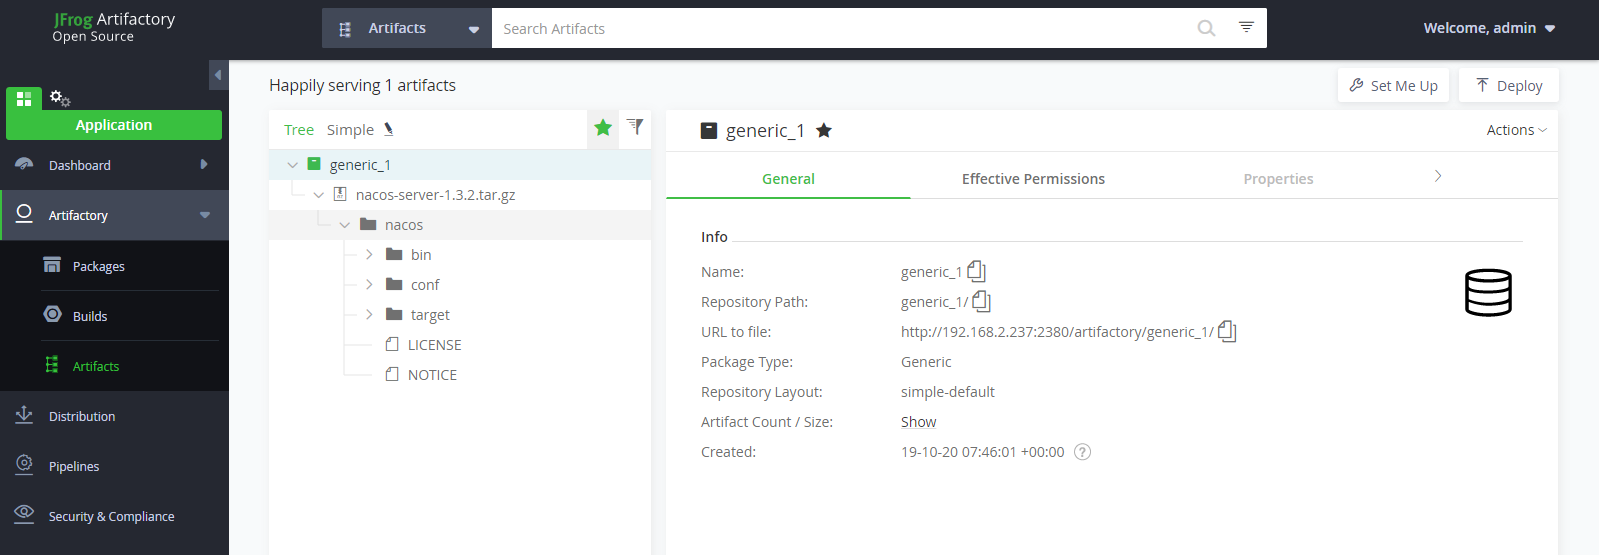
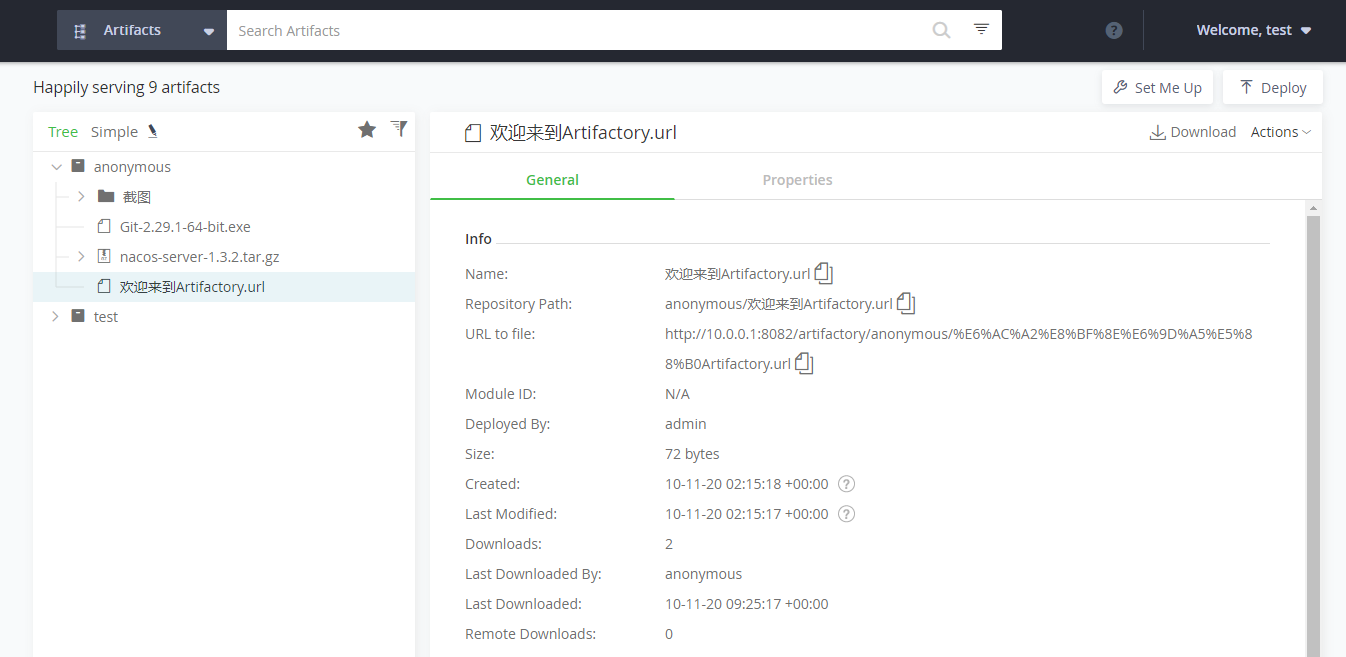
更新 Artifactory 的用法

diff --git a/docs/Distributed/存储/Artifactory.md b/docs/Distributed/存储/Artifactory.md
@@ -1,10 +1,8 @@
 # Artifactory
 
-：一个用作制品仓库的服务器软件，由 Jfrog 公司推出。
-- 特定：
-  - 提供了 Web 操作页面，也提供了上传、下载文件的 HTTP API 。
-  - 社区版可以免费试用，但只能创建 Generic、Maven 等少量几种仓库。
-  - 支持在 Web 页面上直接解压文件，进行预览。
+：一个用于存储构建产物的文件服务器软件，由 Jfrog 公司推出。
+- 可以通过浏览器访问，也可以生成文件的下载链接，通过 curl 命令上传、下载文件。
+- 社区版可以免费使用，但功能较少。
 - [官方文档](https://www.jfrog.com/confluence/display/RTF6X)
 - 同类产品：
   - Nexus ：主要用作 Maven 仓库，用途较窄。
@@ -13,33 +11,56 @@
 
 - 运行 Docker 镜像：
   ```sh
-  docker run -d --name artifactory -v /opt/artifactory:/var/opt/jfrog/artifactory -p 8082:8082 docker.bintray.io/jfrog/artifactory-oss
+  docker run -d --name artifactory \
+         -p 8082:8082 \
+         -v /opt/artifactory:/var/opt/jfrog/artifactory \
+         docker.bintray.io/jfrog/artifactory-oss
   ```
   默认用户名、密码为 admin、password 。
 
 ## 用法
 
-Web 页面示例：
+- 管理员可以创建仓库（Repository），设置哪些用户有权向该仓库上传、下载文件。
+- 仓库按存储位置分类：
+  - 本地仓库(Local)
+  - 远程仓库(Remote)：通过 URL 拉取其它仓库的内容，缓存到本地。
+  - 虚拟仓库(Virtual)
+- 仓库按文件格式分类：
+  - Generic ：按二进制格式保存文件。
+  - Maven
+  - Gradle
+- 默认定义了一个匿名用户（anonymous），代表没有登录的用户。
+  - 可以在 Security -> Settings 页面中允许 “Allow Anonymous Access” 。
 
+Web 页面如下：
 ![](./Artifactory_1.png)
+- 在 Web 页面左侧，可选择一个仓库。点击右上角的 "Deploy" 就会弹出一个上传文件的窗口。
+- 上传文件时，会根据文件名自动生成上传路径（Target Path）。
+  - 如果已存在该路径的文件，则会覆盖它。
+  - 可以主动设置上传路径，比如划分出子目录。
+- 每个文件有一个唯一的 URL ，可供用户上传、下载该文件。
+  - 文件的 URL 等于 `仓库URL + 文件上传路径` 。可以从网页上拷贝该 URL ，也可以自己拼凑出来。
+- 在浏览器上访问仓库或目录的 URL ，会显示简单的文件列表。如下：
+  ![](./Artifactory_2.png)
 
-- 可以创建一个 Generic 类型的仓库，可用于直接保存文件，比如二进制文件。
-- 在 Web 页面上，打开一个仓库，点击右上角的 "Deploy" 就会弹出一个上传文件的窗口。
-- 上传文件时，需要指定它在该仓库中的保存路径。如果已存在该路径的文件，则会被覆盖。
+节省存储空间的方法：
+- Maven、Gradle 等类型的仓库，可以通过设置 “Max Unique Snapshots” 参数，只保留每个工件版本最大的 n 个快照（SNAPSHOT）。
+- Artifactory Pro 版可以安装 artifactCleanup 插件，定时删除本地仓库中未使用的文件。
+- Remote 类型的仓库可以通过设置 “Unused Artifacts Cleanup Period” 参数，将 n 小时未使用的缓存标记为 Unused 。然后在高级设置 Advanced -> Maintenance 页面，设置定时执行 “Cleanup Unused Cached Artifacts” 。
 
 ## Restful API
 
 - 上传文件：
   ```sh
-  curl -X PUT -u admin:password http://10.0.0.1:8082/artifactory/generic_1/test/1.zip -T 1.zip
+  curl -X PUT -u 用户名:密码 'http://10.0.0.1:8082/artifactory/anonymous/test/1.zip' -T 1.zip
   ```
 
 - 下载文件：
   ```sh
-  curl -O -u admin:password http://10.0.0.1:8082/artifactory/generic_1/test/1.zip
+  curl -O -u 用户名:密码 <URL>
   ```
 
 - 删除文件：
   ```sh
-  curl -X DELETE -u admin:password http://10.0.0.1:8082/artifactory/generic_1/test/1.zip
+  curl -X DELETE -u 用户名:密码 <URL>
   ```

diff --git a/docs/DevOps/容器/Docker-Compose.md b/docs/DevOps/容器/Docker-Compose.md
@@ -11,9 +11,9 @@
 ## 安装
 
 - 用 pip 安装：
-    ```sh
-    pip3 install docker-compose
-    ```
+  ```sh
+  pip3 install docker-compose
+  ```
 
 ## 命令
 
@@ -72,6 +72,8 @@ services:                     # 开始定义服务
     command: [tail, -f, /dev/null]  # 启动命令
     init: true                # 使用 init 作为 1 号进程
     restart: on-failure       # 重启策略
+    depends_on:               # 依赖关系
+      - redis                 # 这表示：如果启动 web 服务，则会自动先启动 redis 服务；如果停止 redis 服务，则会自动先停止 web 服务
     environment:              # 环境变量
       var1: 1
       var2: hello
@@ -85,8 +87,11 @@ services:                     # 开始定义服务
       - /root/data:/root/data # 可以直接挂载目录
       - ./log:/root/log       # 可以挂载相对路径（必须以 ./ 或 ../ 开头，否则会被视作数据卷名）
       - conf:/root/conf       # 可以挂载数据卷
-    depends_on:               # 依赖关系
-      - redis                 # 这表示：如果启动 web 服务，则会自动先启动 redis 服务；如果停止 redis 服务，则会自动先停止 web 服务
+    ulimits:                  # 设置 ulimit 参数
+      nproc: 65535
+      nofile:
+        soft: 20000
+        hard: 40000
 
   redis:                      # 定义第二个服务
     image: redis:5.0.5
@@ -106,9 +111,9 @@ volumes:                      # 定义数据卷（服务挂载的数据卷都必
   db:
 ```
 - 如果用户指定了生成的容器名，则只能创建多个容器实例时会因为名字冲突而失败。
-  - 如果用户不指定生成的容器名，则会自动按照 "当前目录名 _ 服务名 _ 第几个实例" 的格式命名，比如：web_web_1 。
-  - 同理，如果用户不指定生成的 volume 的名称，则会自动按照 "当前目录名 _ 数据卷名" 的格式命名，比如：web_conf 。
+  - 如果用户不指定生成的容器名，则会自动按照 `当前目录名 _ 服务名 _ 第几个实例` 的格式命名，比如：web_web_1 。
+  - 同理，如果用户不指定生成的 volume 的名称，则会自动按照 `当前目录名 _ 数据卷名` 的格式命名，比如：web_conf 。
   - 如果 Service 只运行一个实例，则指定容器名、挂载指定目录比较好，这样它们的容器名、目录位置是确定不变的。
   - 如果 Service 要运行多个实例，则不指定容器名、挂载数据卷比较好，这样多个实例会自动命名，不会冲突。
 - 上例中，web 容器向宿主机映射了两个端口，而 redis 容器没有映射端口，因此不能被宿主机访问。
-  两个容器都连接到了 net_1 网络，因此可以相互访问。比如 web 容器可以通过 `127.0.0.1:6379` 或 `redis:6379` 访问到 redis 容器。
+  - 两个容器都连接到了 net_1 网络，因此可以相互访问。比如 web 容器可以通过 `127.0.0.1:6379` 或 `redis:6379` 访问到 redis 容器。

diff --git a/docs/Distributed/存储/Nextcloud.md b/docs/Distributed/存储/Nextcloud.md
@@ -1,13 +1,13 @@
 # Nextcloud
 
 ：一个开源的网盘服务器软件。
-- 提供了 Web 操作页面，但没有提供上传、下载文件的 HTTP API 。
 - 提供了 Linux、MacOS、Windows、Android、IOS 版的客户端。
+- 不能生成文件的下载链接，只能在用户之间共享文件。
 - 提供了插件市场，功能丰富，接近商业级网盘。
 - [官方文档](https://docs.nextcloud.com/server/10/user_manual/contents.html)
 - 同类产品：
   - Seafile  ：国产开源网盘，功能很少。
-  - ownCloud ：可以给文件创建公开的下载链接。提供了插件市场，功能比 Nextcloud 略少。
+  - ownCloud ：可以生成文件的下载链接。提供了插件市场，功能比 Nextcloud 略少。
 
 ## 部署
 

diff --git a/docs/Distributed/存储/FastDFS.md b/docs/Distributed/存储/FastDFS.md
@@ -1,7 +1,8 @@
 # FastDFS
 
 ：一个轻量级的分布式文件服务器，基于 C 开发。
-- 提供文件存储、上传、下载等功能，适合管理海量的中小文件（4KB~500MB）。
+- 没有提供 Web 操作页面，只能通过命令行操作。
+- 提供了文件存储、上传、下载等功能，适合管理海量的中小型文件（4KB~500MB）。
 - 通常将 FastDFS 与 Nginx 搭配使用。
 - [GitHub 页面](https://github.com/happyfish100/fastdfs)
 

diff --git a/docs/Distributed/存储/MinIO.md b/docs/Distributed/存储/MinIO.md
@@ -1,8 +1,8 @@
-# Nextcloud
+# MinIO
 
 ：一个开源的对象存储服务器软件，基于 Go 开发。
 - 很轻量级，读写速度快，云原生架构。
-- 提供了 Web 页面，支持创建分享链接。
+- 可以生成文件的下载链接。
 - 提供了命令行客户端 `mc` ，支持 ls、cp、rm、find 等多种 Unix 风格的命令。
 - 提供了 Python、Go、Java 等语言的 SDK 。
 - 兼容 Amazon S3 的 API 。
